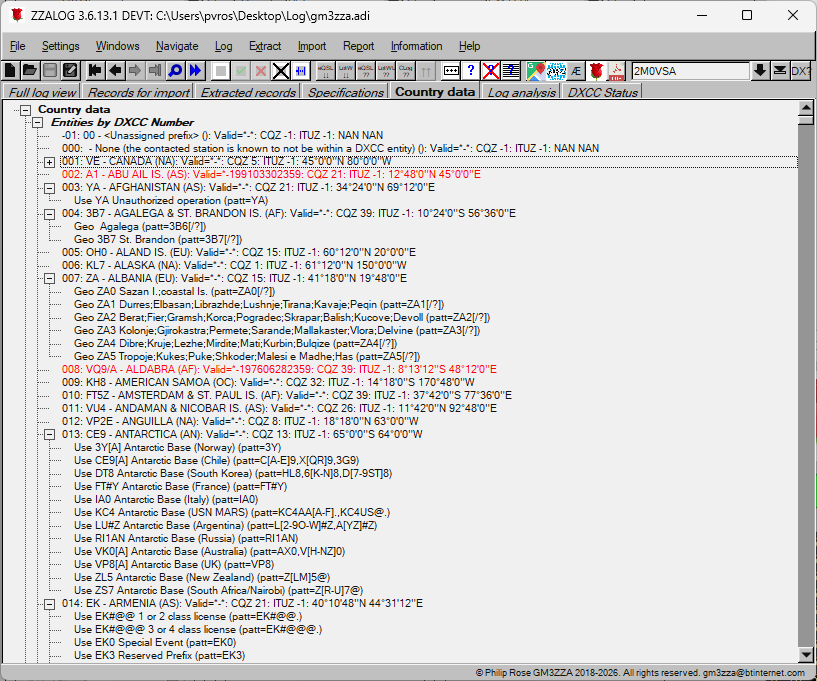
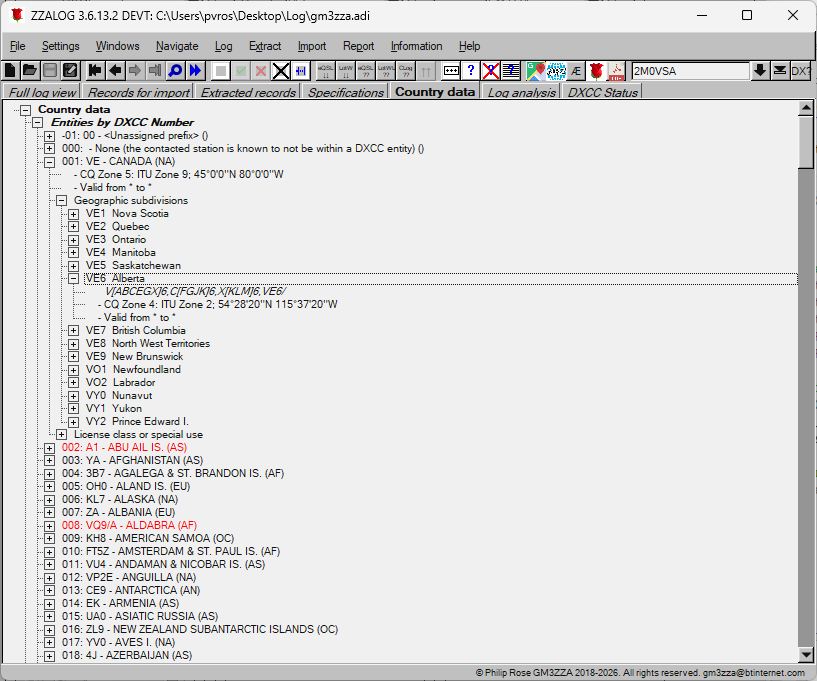
Minor corrections to documentation for cty_tree,

Changed region(s): [[0.0306, 0.185, 0.7344, 0.9868], [0.9486, 0.1542, 1.0, 0.2467], [0.9486, 0.9868, 1.0, 1.0]]

diff --git a/src/cty_tree.cpp b/src/cty_tree.cpp
@@ -40,7 +40,7 @@ cty_tree::cty_tree(int X, int Y, int W, int H, const char* L, field_app_t app) :
 	tree_settings.get("Font Size", fontsize_, FL_NORMAL_SIZE);
 
 	// Set tree properties
-	// sortorder(FL_TREE_SORT_ASCENDING);
+	sortorder(FL_TREE_SORT_ASCENDING);
 	item_labelfont(font_);
 	item_labelsize(fontsize_);
 
